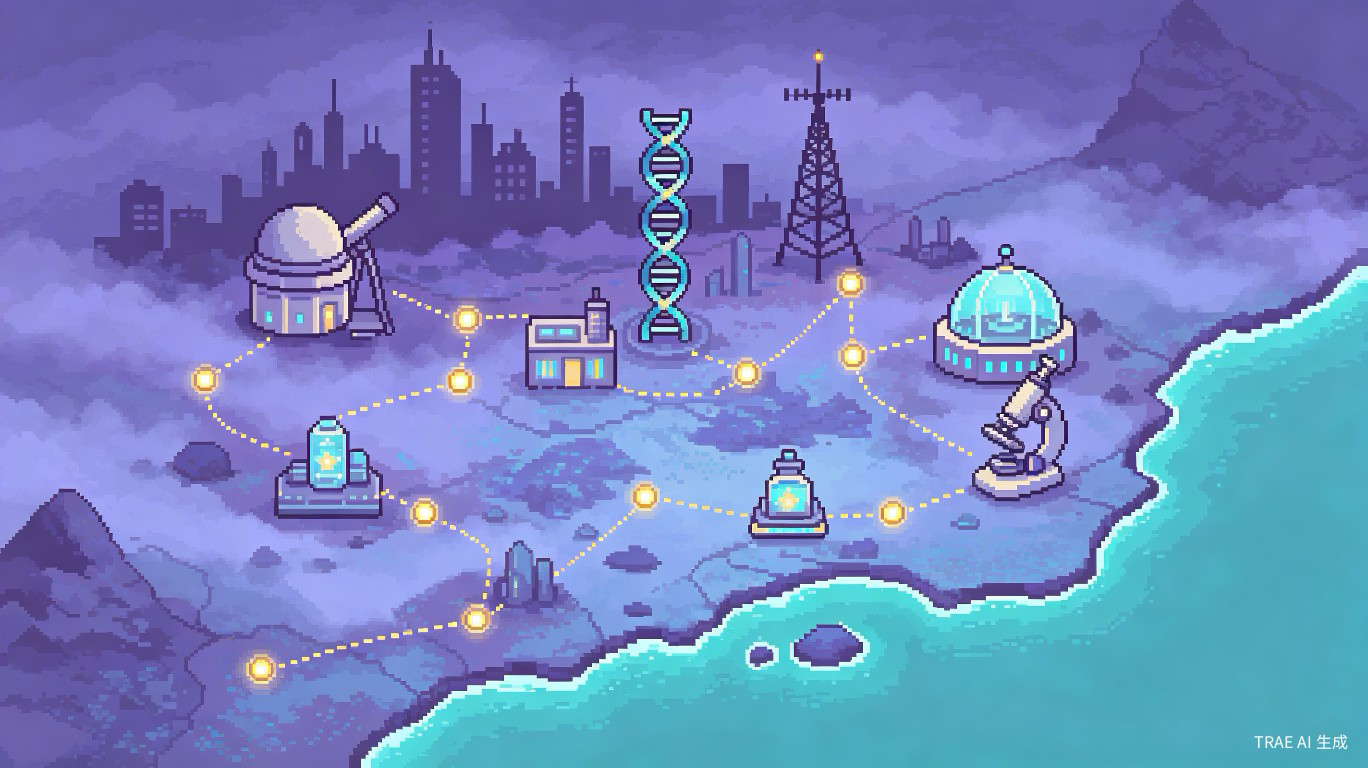
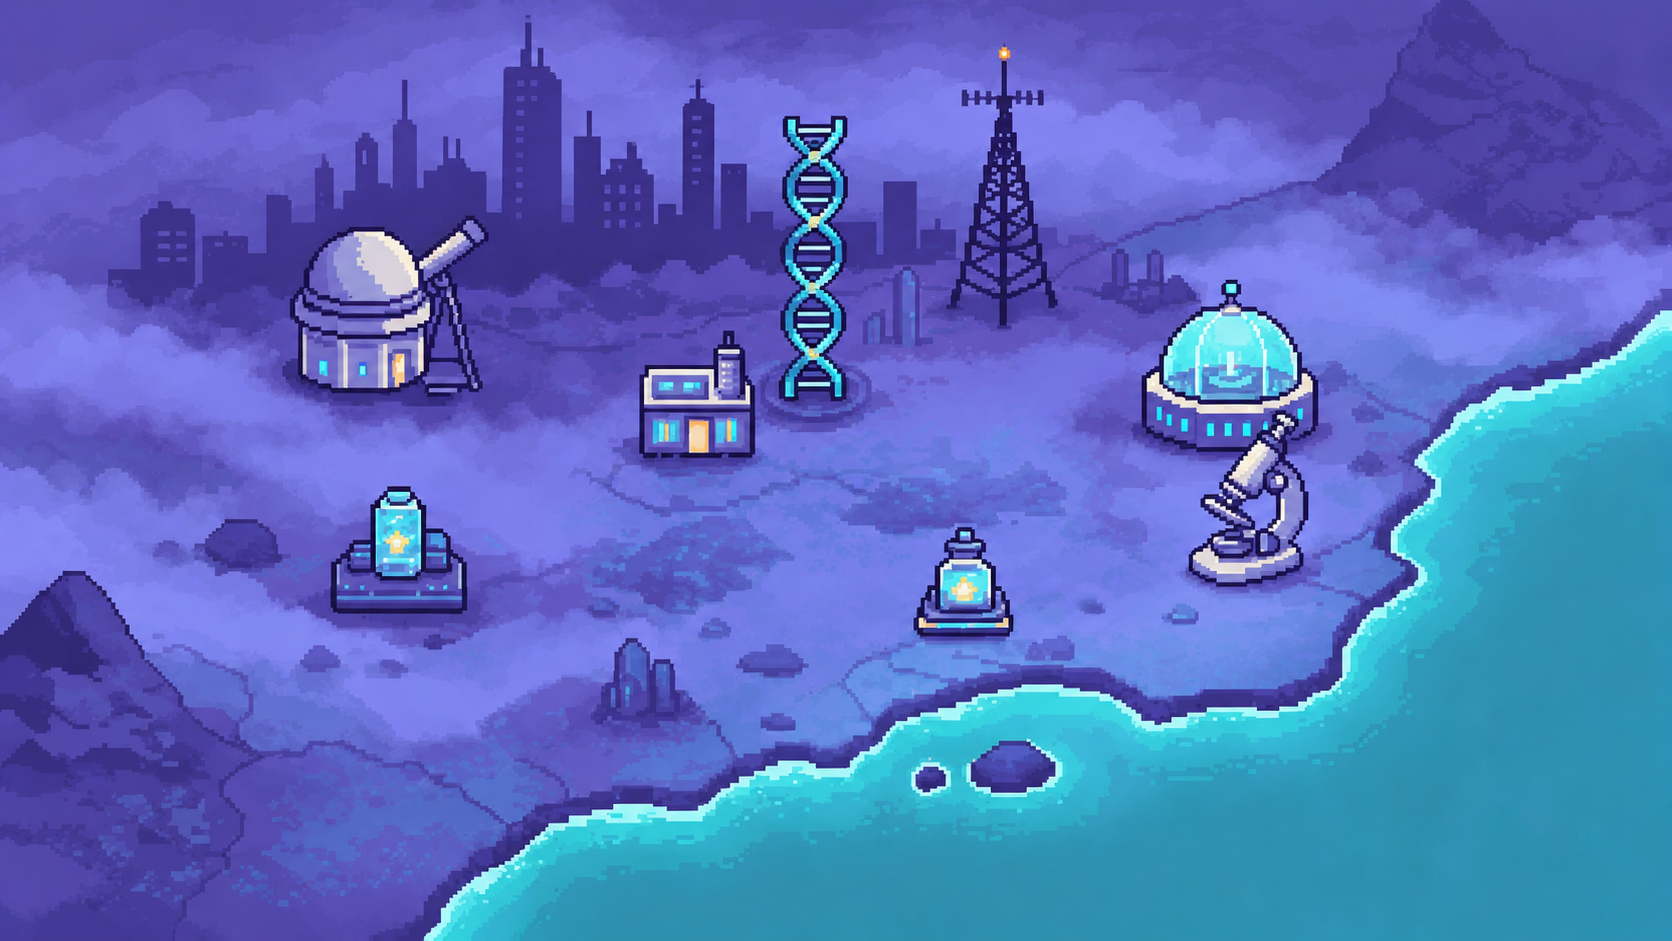
fix

diff --git a/apps/frontend/src/data/sapiens.ts b/apps/frontend/src/data/sapiens.ts
@@ -10,7 +10,7 @@ export const sapiensWorld: World = {
   title: "人类简史",
   biomeTheme: "history-civilization",
   startNodeId: "n_cog_rev",
-  scholarStartByDepth: { what: { x: 60, y: 800 }, how: { x: 60, y: 200 }, why: { x: 60, y: 900 }, system: { x: 60, y: 850 } },
+  scholarStartByDepth: { what: { x: 60, y: 800 }, how: { x: 100, y: 400 }, why: { x: 60, y: 900 }, system: { x: 60, y: 850 } },
   layers: ["what", "how", "why", "system"],
 
   nodes: [
@@ -26,7 +26,7 @@ export const sapiensWorld: World = {
         title: "讲故事的人",
         avatar: "/nodes/npc_storyteller.png",
       },
-      positions: { what: { x: 450, y: 750 }, how: { x: 519, y: 183 }, why: { x: 112, y: 827 }, system: { x: 112, y: 630 } },
+      positions: { what: { x: 450, y: 750 }, how: { x: 300, y: 300 }, why: { x: 200, y: 780 }, system: { x: 112, y: 630 } },
       neighbors: ["n_agri_rev"],
       nextDiscoveryId: "n_agri_rev",
       sourceExcerpt:
@@ -90,7 +90,7 @@ export const sapiensWorld: World = {
         title: "老农夫",
         avatar: "/nodes/npc_farmer.png",
       },
-      positions: { what: { x: 560, y: 600 }, how: { x: 688, y: 155 }, why: { x: 393, y: 769 }, system: { x: 393, y: 654 } },
+      positions: { what: { x: 560, y: 600 }, how: { x: 520, y: 210 }, why: { x: 420, y: 769 }, system: { x: 393, y: 654 } },
       neighbors: ["n_money"],
       nextDiscoveryId: "n_money",
       sourceExcerpt:
@@ -142,7 +142,7 @@ export const sapiensWorld: World = {
       finalQuestion: { source: "mysteryQuestion", state: "locked" },
     },
 
-    // ── What 4: 货币 ───────────────────────────────────────────────────
+    // ── What 3: 货币 ───────────────────────────────────────────────────
     {
       id: "n_money",
       name: "货币的诞生",
@@ -154,7 +154,7 @@ export const sapiensWorld: World = {
         title: "商人",
         avatar: "/nodes/npc_merchant.png",
       },
-      positions: { what: { x: 800, y: 650 }, how: { x: 877, y: 141 }, why: { x: 674, y: 786 }, system: { x: 674, y: 681 } },
+      positions: { what: { x: 800, y: 650 }, how: { x: 760, y: 100 }, why: { x: 674, y: 786 }, system: { x: 674, y: 681 } },
       neighbors: ["n_agri_rev", "n_imagined_order"],
       nextDiscoveryId: "n_imagined_order",
       sourceExcerpt:
@@ -206,7 +206,7 @@ export const sapiensWorld: World = {
       finalQuestion: { source: "mysteryQuestion", state: "locked" },
     },
 
-    // ── What 5: 想象的秩序 ────────────────────────────────────────────
+    // ── What 4: 想象的秩序 ────────────────────────────────────────────
     {
       id: "n_imagined_order",
       name: "想象的秩序",
@@ -218,7 +218,7 @@ export const sapiensWorld: World = {
         title: "石碑书记",
         avatar: "/nodes/npc_scribe.png",
       },
-      positions: { what: { x: 1000, y: 750 }, how: { x: 1109, y: 155 }, why: { x: 954, y: 444 }, system: { x: 954, y: 655 } },
+      positions: { what: { x: 1000, y: 750 }, how: { x: 950, y: 160 }, why: { x: 954, y: 700 }, system: { x: 954, y: 655 } },
       neighbors: ["n_money", "n_empire"],
       nextDiscoveryId: "n_empire",
       sourceExcerpt:
@@ -270,7 +270,7 @@ export const sapiensWorld: World = {
       finalQuestion: { source: "mysteryQuestion", state: "locked" },
     },
 
-    // ── What 6: 帝国 ────────────────────────────────────────────────────
+    // ── What 5: 帝国 ────────────────────────────────────────────────────
     {
       id: "n_empire",
       name: "帝国的崛起",
@@ -282,7 +282,7 @@ export const sapiensWorld: World = {
         title: "帝王使者",
         avatar: "/nodes/npc_emperor.png",
       },
-      positions: { what: { x: 1130, y: 500 }, how: { x: 1319, y: 183 }, why: { x: 1263, y: 339 }, system: { x: 1263, y: 679 } },
+      positions: { what: { x: 1130, y: 500 }, how: { x: 1150, y: 300 }, why: { x: 1100, y: 600 }, system: { x: 1263, y: 679 } },
       neighbors: ["n_imagined_order", "n_sci_rev"],
       nextDiscoveryId: "n_sci_rev",
       sourceExcerpt:
@@ -334,7 +334,7 @@ export const sapiensWorld: World = {
       finalQuestion: { source: "mysteryQuestion", state: "locked" },
     },
 
-    // ── What 7: 科学革命 ───────────────────────────────────────────────
+    // ── What 6: 科学革命 ───────────────────────────────────────────────
     {
       id: "n_sci_rev",
       name: "科学革命",
@@ -346,7 +346,7 @@ export const sapiensWorld: World = {
         title: "观星者",
         avatar: "/nodes/npc_astronomer.png",
       },
-      positions: { what: { x: 1250, y: 340 }, how: { x: 1516, y: 394 }, why: { x: 1544, y: 224 }, system: { x: 1544, y: 592 } },
+      positions: { what: { x: 1250, y: 340 }, how: { x: 1400, y: 394 }, why: { x: 1100, y: 400 }, system: { x: 1544, y: 592 } },
       neighbors: ["n_empire", "n_capitalism"],
       nextDiscoveryId: "n_capitalism",
       sourceExcerpt:
@@ -398,7 +398,7 @@ export const sapiensWorld: World = {
       finalQuestion: { source: "mysteryQuestion", state: "locked" },
     },
 
-    // ── What 8: 资本与科学联姻 ──────────────────────────────────────────
+    // ── What 7: 资本与科学联姻 ──────────────────────────────────────────
     {
       id: "n_capitalism",
       name: "资本与科学联姻",
@@ -410,7 +410,7 @@ export const sapiensWorld: World = {
         title: "银行家",
         avatar: "/nodes/node_coin.png",
       },
-      positions: { what: { x: 1400, y: 200 }, how: { x: 1530, y: 738 }, why: { x: 1811, y: 181 }, system: { x: 1811, y: 605 } },
+      positions: { what: { x: 1400, y: 200 }, how: { x: 1650, y: 500 }, why: { x: 1200, y: 300 }, system: { x: 1811, y: 605 } },
       neighbors: ["n_sci_rev"],
       nextDiscoveryId: null,
       sourceExcerpt: